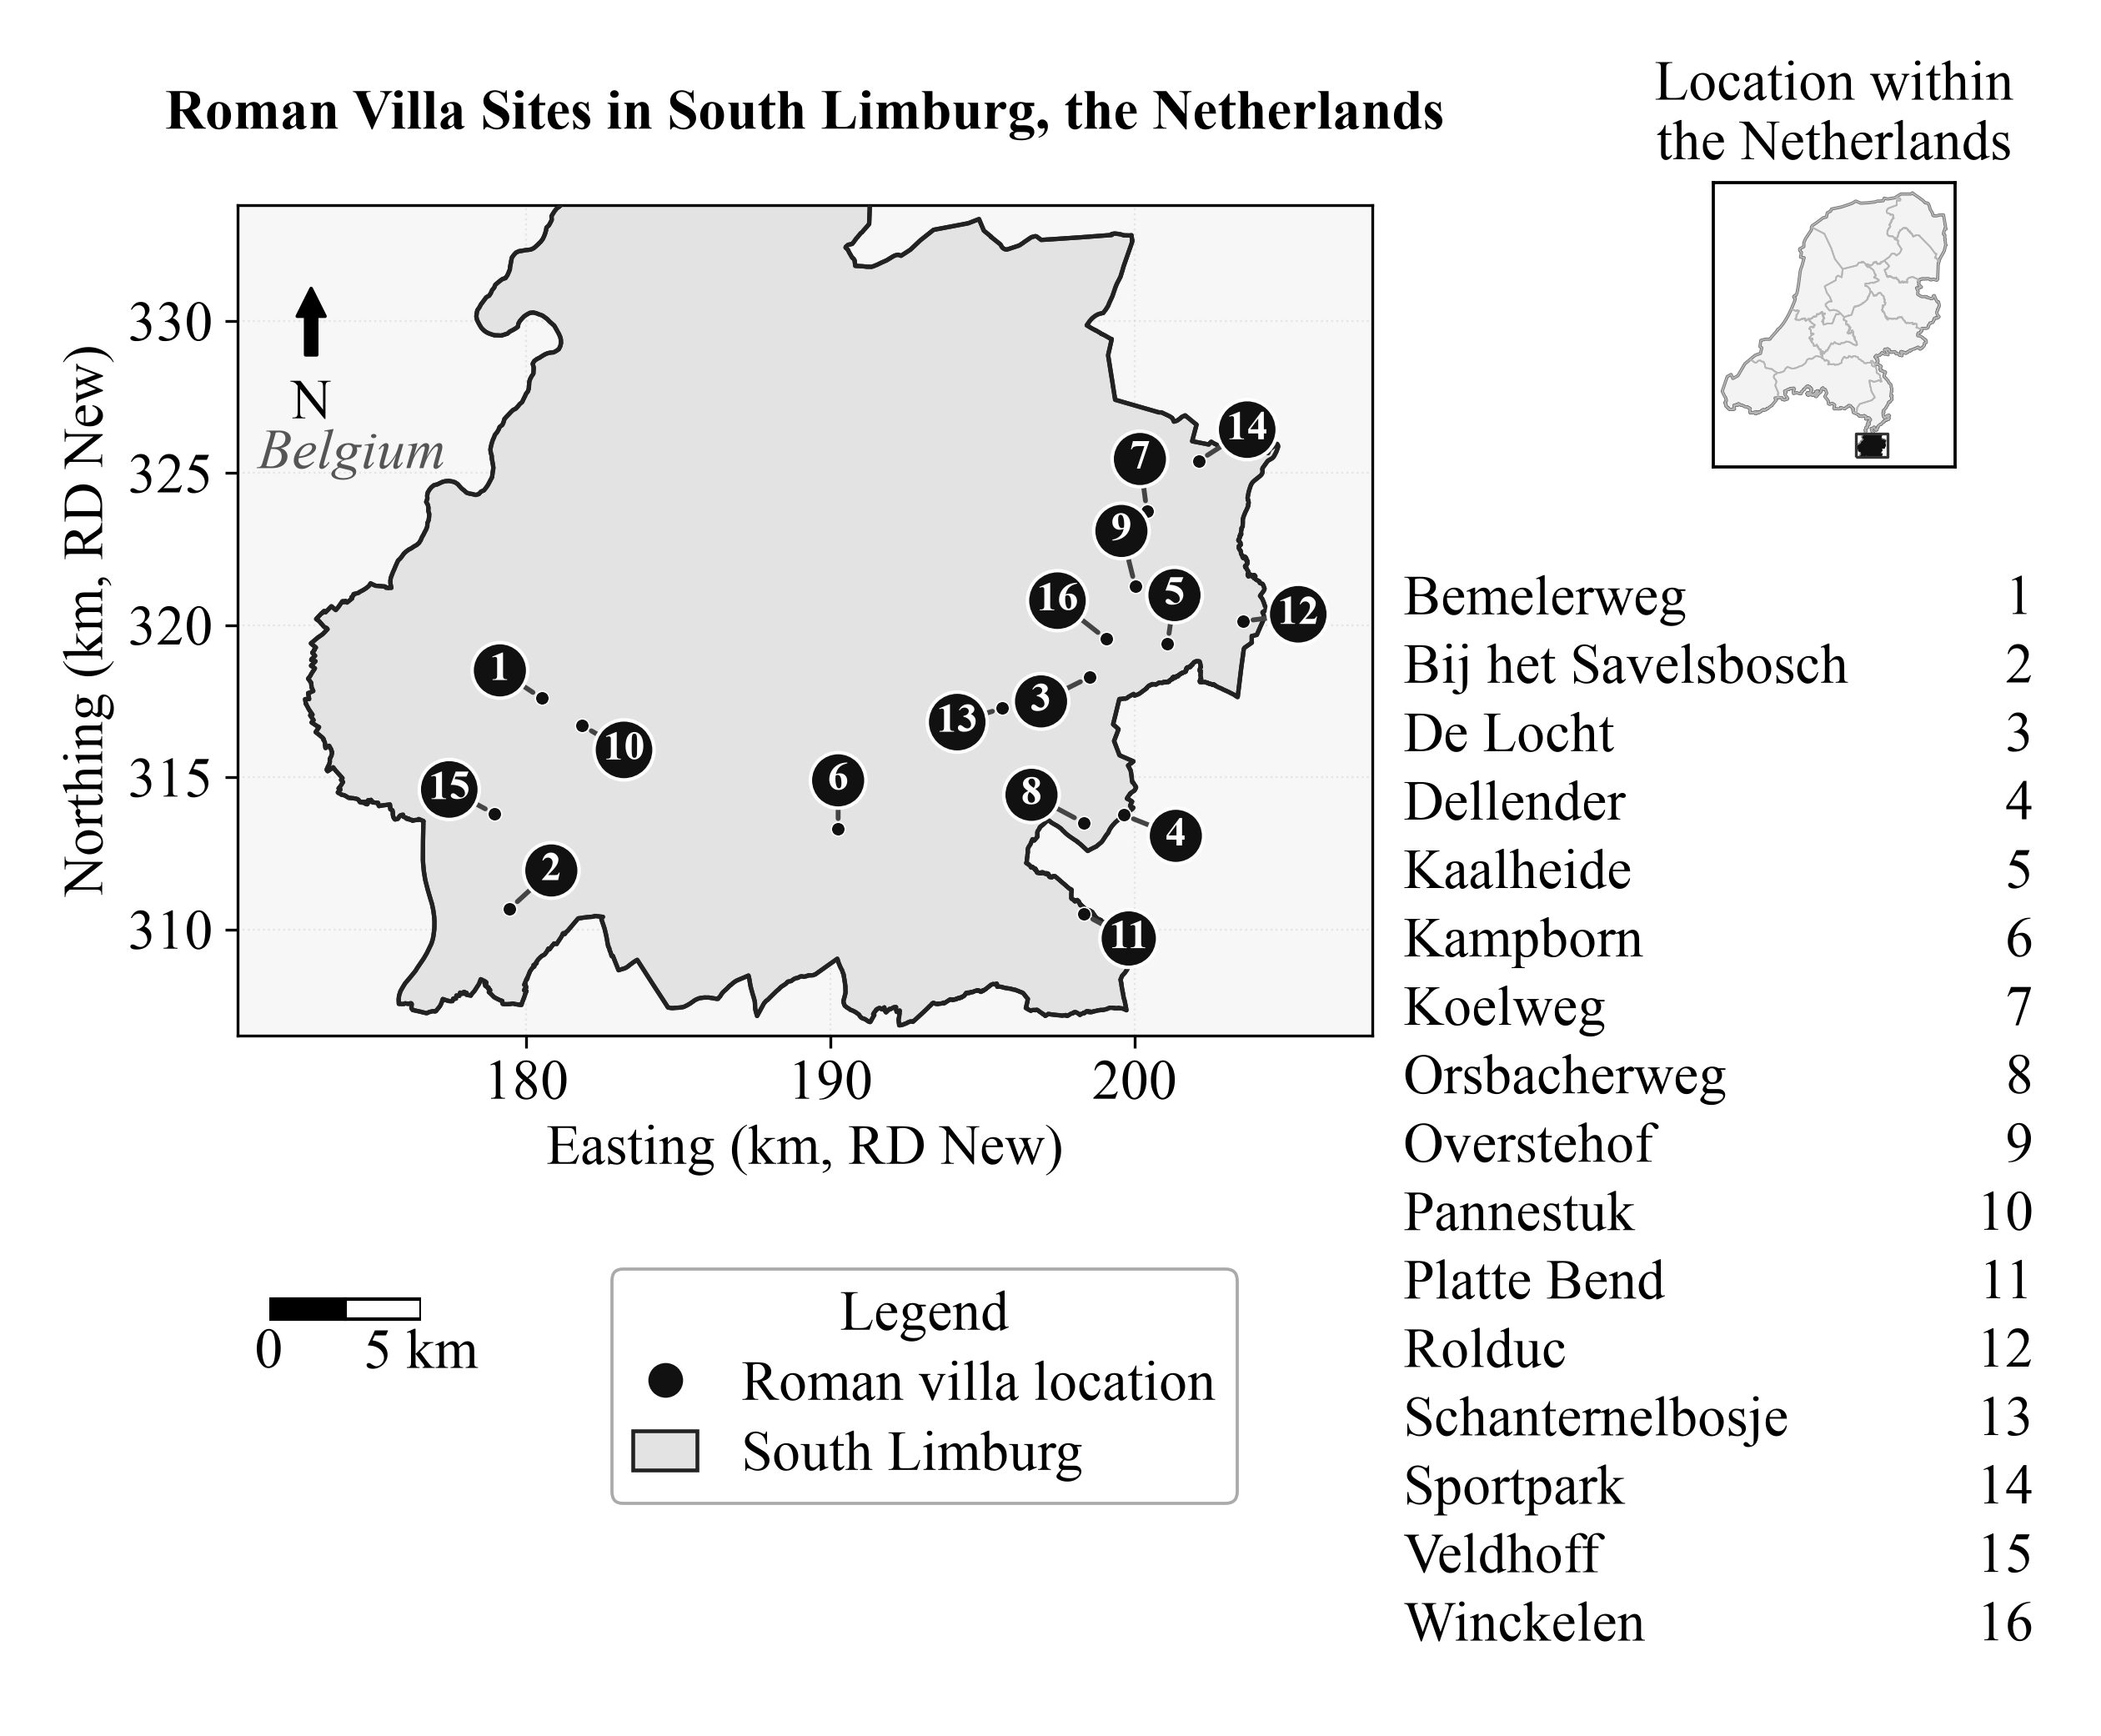
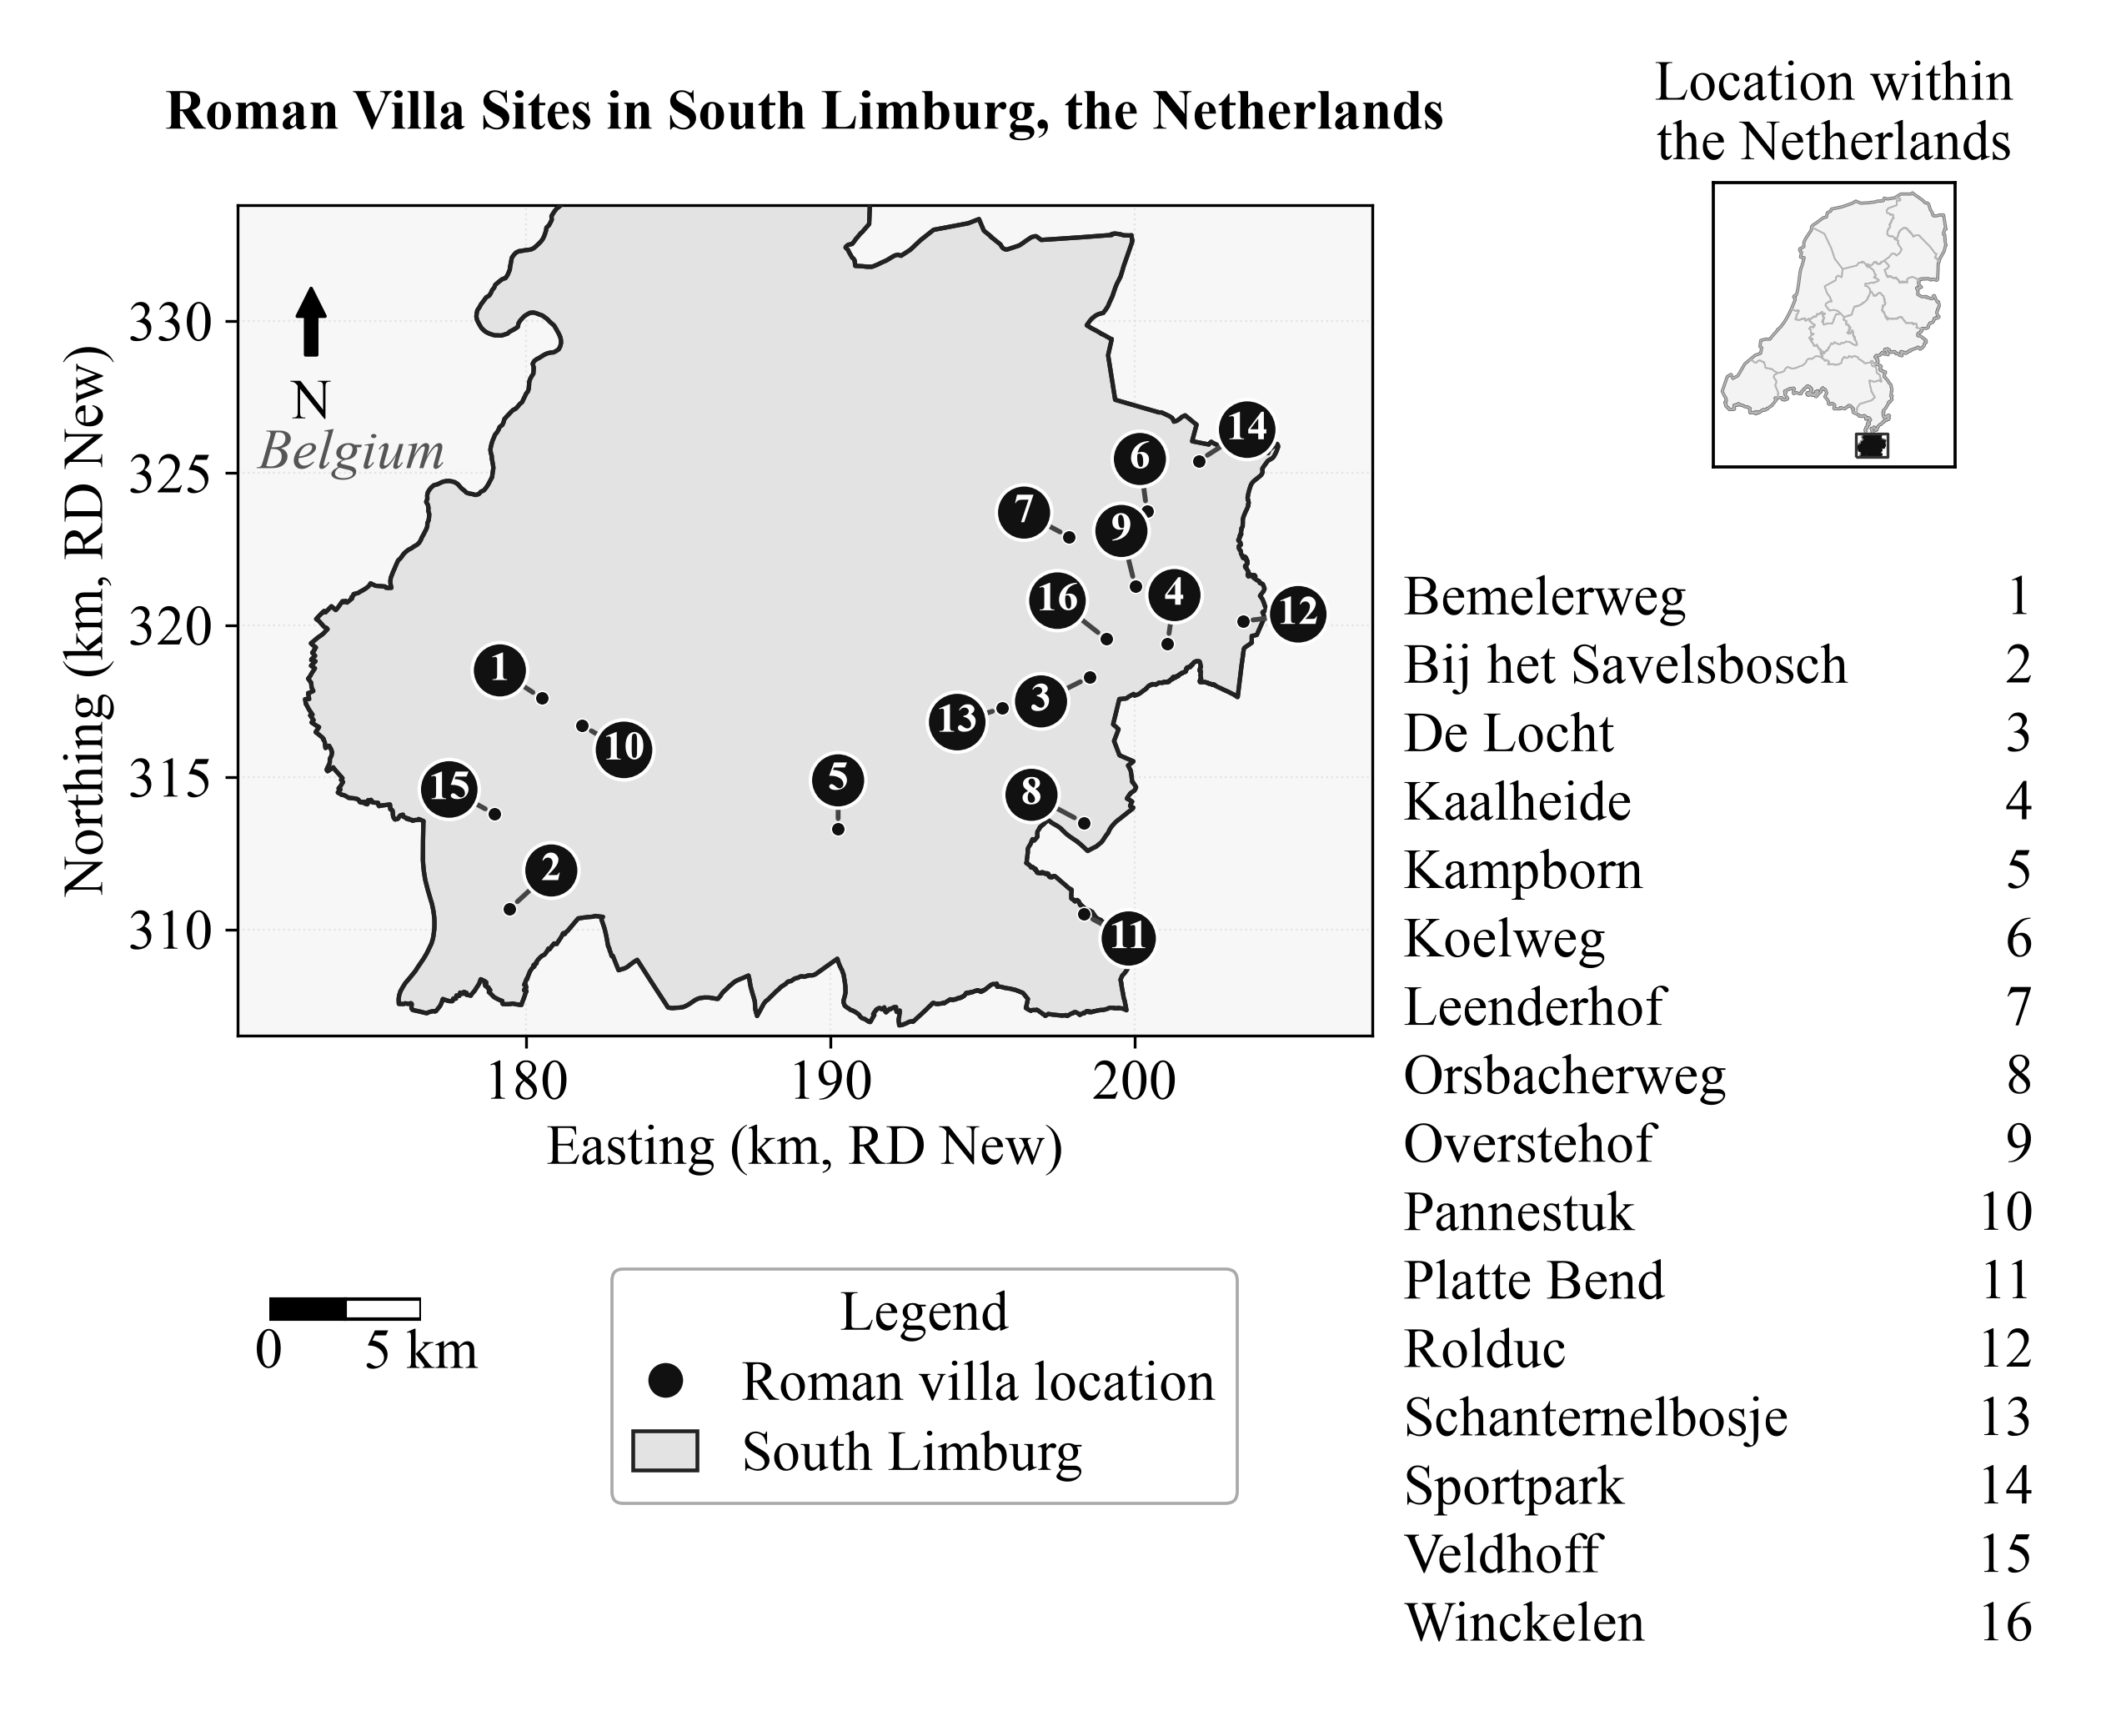
Refresh generate_maps_roman_villas/

diff --git a/tools/scientific_report/generate_maps_roman_villas/generate_maps.py b/tools/scientific_report/generate_maps_roman_villas/generate_maps.py
@@ -121,10 +121,10 @@ TARGET_LABEL_OFFSETS = {
     (180500, 317600): (-12, 8),     # 1  Bemelerweg
     (179450, 310680): (12, 11),     # 2  Bij het Savelsbosch
     (198520, 318294): (-14, -7),    # 3  De Locht
-    (199640, 313760): (15, -6),     # 4  Dellender
-    (201080, 319390): (2, 14),      # 5  Kaalheide
-    (190250, 313300): (0, 14),      # 6  Kampborn
-    (200400, 323750): (-2, 15),     # 7  Koelweg
+    (201080, 319390): (2, 14),      # 4  Kaalheide
+    (190250, 313300): (0, 14),      # 5  Kampborn
+    (200400, 323750): (-2, 15),     # 6  Koelweg
+    (197848, 322902): (-13, 7),     # 7  Leenderhof
     (198320, 313510): (-15, 8),     # 8  Orsbacherweg
     (200020, 321270): (-4, 16),     # 9  Overstehof
     (181840, 316700): (12, -7),     # 10 Pannestuk